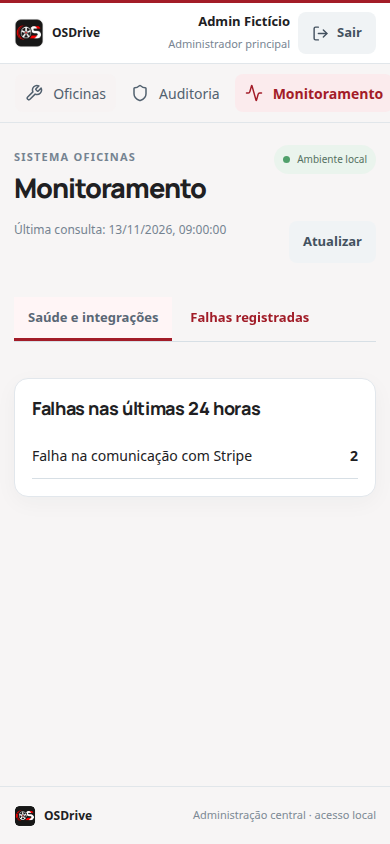
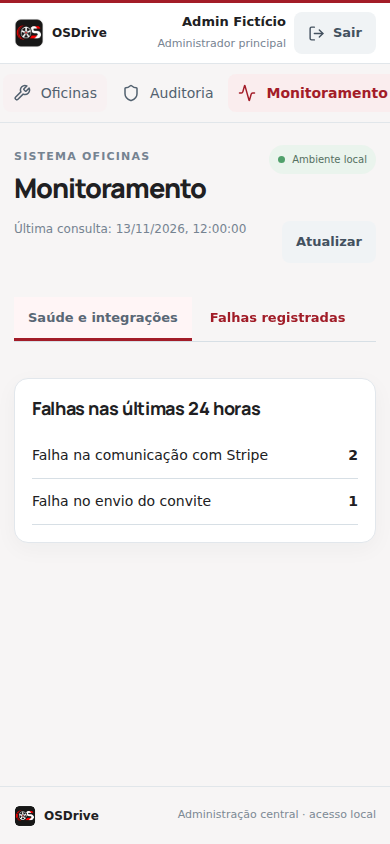
fix(admin): corrigir prazo do link e falha de convite (#202)
CI PostgreSQL #870 aprovado: build, 406 testes gerais, 47 integrações PostgreSQL 17 e regressões visuais. Aviso de 48 horas e descrição explícita de falha de entrega; duas capturas novas e uma atualizada. Somente homologação, sem mudanças no envio, Stripe, banco ou Horse Power definitiva.

diff --git a/tests/adminPresentation.test.ts b/tests/adminPresentation.test.ts
@@ -1,6 +1,6 @@
 import test from "node:test";
 import assert from "node:assert/strict";
-import {adminActionLabel,adminReason,adminRequest,localDateInput,optionalWholeNumber,plannedWorkshopPlans,workshopTabs} from "../src/lib/adminPresentation";
+import {adminActionLabel,adminResultLabel,adminReason,adminRequest,localDateInput,optionalWholeNumber,plannedWorkshopPlans,workshopTabs} from "../src/lib/adminPresentation";
 test("ADM-002.1: sections preserve transfers and future plans do not supply effective grants",()=>{
  assert.deepEqual(workshopTabs.map(t=>t[0]),["general","access","users","invitations","history","transfer"]);
  assert.deepEqual(plannedWorkshopPlans.map(p=>p.label),["Básico","Profissional","Premium"]);
@@ -31,4 +31,13 @@ test("ADM-002.1: request failures are actionable and retain same-origin authenti
   globalThis.fetch=async(url,options)=>{assert.equal(url,"/admin-api/workshops");assert.equal(options?.credentials,"same-origin");return Response.json({ok:true});};
   assert.deepEqual(await adminRequest("/workshops"),{ok:true});
  }finally{globalThis.fetch=original;}
+});
+
+test("ADM: invitation delivery failures have explicit labels without changing audit identifiers",()=>{
+ for(const action of ["admin.workshop.invitation.delivery_failed","admin.workshop.invitation_failed"]){
+  assert.equal(adminActionLabel(action),"Falha no envio do convite");
+ }
+ assert.equal(adminResultLabel("failure"),"Falhou");
+ assert.equal(adminActionLabel("admin.workshop.invitation.created"),"Convite de ativação preparado");
+ assert.equal(adminActionLabel("admin.workshop.invitation.unknown"),"Convite de ativação atualizado");
 });

diff --git a/src/components/PlatformWorkshops.tsx b/src/components/PlatformWorkshops.tsx
@@ -223,7 +223,7 @@ export function PlatformWorkshops({ canManage, canTransfer, canRequestCritical, 
         {error&&<p role="alert" className="pa-note pa-note--error">{error}</p>}
         {manualActivation.mode === "confirm" ? <>
           <p>Antes de continuar, confirme que verificou fora do sistema a titularidade da oficina e a autorização de quem receberá o link. A pessoa que concluir o fluxo poderá criar o acesso do responsável cadastrado e iniciar o teste grátis.</p>
-          <p>O link não será enviado por e-mail. Ele expira em 72 horas e a geração invalida convites anteriores ainda não utilizados.</p>
+          <p>O link não será enviado por e-mail. Ele expira em 48 horas e a geração invalida convites anteriores ainda não utilizados.</p>
           <label>Como a titularidade foi verificada?
             <select value={verificationMethod} onChange={event => setVerificationMethod(event.target.value as typeof verificationMethod)}>
               <option value="phone">Contato telefônico</option>

diff --git a/src/lib/adminPresentation.ts b/src/lib/adminPresentation.ts
@@ -37,6 +37,7 @@ const actions: Record<string,string> = {
  "admin.workshop.invitation_sent":"Convite enviado", "admin.workshop.invitation_failed":"Falha no envio do convite",
  "admin.workshop.manual_activation_link_created":"Link manual de ativação gerado",
  "admin.workshop.activated":"Ativação concluída",
+ "admin.workshop.invitation.delivery_failed":"Falha no envio do convite",
  "admin.workshop.invitation.created":"Convite de ativação preparado",
  "admin.workshop.invitation.manual_link_created":"Link manual de ativação gerado",
  "admin.workshop.entitlements.updated":"Permissões e limites alterados",

diff --git a/docs/mapeamento-visual/CHECKLIST.md b/docs/mapeamento-visual/CHECKLIST.md
@@ -136,7 +136,7 @@ Estados: capturada, pendente, bloqueada e não aplicável.
 | stripe-admin-desktop | Painel Administrativo Central | Preços mensais Stripe — Interface real em Chromium com API e cobranças fictícias; não comprova webhook ou pagamento externo. | [`capturas/17-painel-admin-central/stripe-admin-desktop.png`](./capturas/17-painel-admin-central/stripe-admin-desktop.png) | capturada | 2026-11-15 | fbaa9f600ddc61417b22752e8396712ecedaaad6 | Teste de busca, paginação, erros, conciliação com justificativa e retomada confirmada; PostgreSQL validado separadamente no CI. |
 | stripe-oficina-desktop | Configurações da oficina | Assinatura e pagamentos da oficina — Componente real em Chromium com API e pagamentos fictícios; não comprova entrega de webhook ou cobrança externa. | [`capturas/14-configuracoes/stripe-oficina-desktop.png`](./capturas/14-configuracoes/stripe-oficina-desktop.png) | capturada | 2026-11-05 | ffa6ae17881c2848a19a373d48599d99fc35ef4f | CI #583. Dados exclusivamente fictícios; integração PostgreSQL validada separadamente. |
 | stripe-oficina-mobile | Configurações da oficina | Assinatura e pagamentos da oficina — Componente real em Chromium com API e pagamentos fictícios; não comprova entrega de webhook ou cobrança externa. | [`capturas/14-configuracoes/stripe-oficina-mobile.png`](./capturas/14-configuracoes/stripe-oficina-mobile.png) | capturada | 2026-11-05 | ffa6ae17881c2848a19a373d48599d99fc35ef4f | CI #583. Dados exclusivamente fictícios; integração PostgreSQL validada separadamente. |
-| monitoramento-mobile | Painel Administrativo Central | Monitoramento — falhas por integração — Interface real com dados fictícios; não comprova fluxo autenticado na homologação. | [`capturas/17-painel-admin-central/monitoramento-mobile.png`](./capturas/17-painel-admin-central/monitoramento-mobile.png) | capturada | 2026-11-13 | 1a45971dc80ce77954c95612f39891bada77d5b4 | Regressão Playwright com API fictícia. |
+| monitoramento-mobile | Painel Administrativo Central | Monitoramento — falhas por integração — Monitoramento real com eventos fictícios, incluindo falha no envio de convite; não comprova disponibilidade externa. | [`capturas/17-painel-admin-central/monitoramento-mobile.png`](./capturas/17-painel-admin-central/monitoramento-mobile.png) | capturada | 2026-11-15 | c70f7882f045ef840f8425161c8cfc5f3a0534c8 | Regressão Playwright no CI #869 com API e dados fictícios; nenhum envio real ou alteração em banco persistente. |
 | support-admin-desktop | Painel Administrativo Central | Suporte — atualização da conversa (admin, desktop) — Interface real e APIs fictícias: atualização de mensagens, estado e rascunho preservado; menus com ícones. | [`capturas/17-painel-admin-central/support-admin-desktop.png`](./capturas/17-painel-admin-central/support-admin-desktop.png) | capturada | 2026-11-13 | 1c7a0ed13dec531868f6a0eb168a08f2969dcb78 | scripts/test-support-interface.mjs em loopback; sem dados persistentes. |
 | suporte-mobile | Painel Administrativo Central | Suporte — atualização da conversa (admin, mobile) — Interface real e APIs fictícias: atualização de mensagens, estado e rascunho preservado; menus com ícones. | [`capturas/17-painel-admin-central/suporte-mobile.png`](./capturas/17-painel-admin-central/suporte-mobile.png) | capturada | 2026-11-13 | 1c7a0ed13dec531868f6a0eb168a08f2969dcb78 | scripts/test-support-interface.mjs em loopback; sem dados persistentes. |
 | support-oficina-desktop | Suporte da oficina | Suporte — atualização da conversa (oficina, desktop) — Interface real e APIs fictícias: atualização de mensagens, estado e rascunho preservado; menus com ícones. | [`capturas/19-suporte/support-oficina-desktop.png`](./capturas/19-suporte/support-oficina-desktop.png) | capturada | 2026-11-13 | 1c7a0ed13dec531868f6a0eb168a08f2969dcb78 | scripts/test-support-interface.mjs em loopback; sem dados persistentes. |
@@ -172,6 +172,8 @@ Estados: capturada, pendente, bloqueada e não aplicável.
 | stripe-admin-details-desktop | Painel Administrativo Central | Conferência de cobranças por oficina — Interface real em Chromium com API e cobranças fictícias; não comprova webhook ou pagamento externo. | [`capturas/17-painel-admin-central/stripe-admin-details-desktop.png`](./capturas/17-painel-admin-central/stripe-admin-details-desktop.png) | capturada | 2026-11-15 | fbaa9f600ddc61417b22752e8396712ecedaaad6 | Teste de busca, paginação, erros, conciliação com justificativa e retomada confirmada; PostgreSQL validado separadamente no CI. |
 | stripe-admin-details-mobile | Painel Administrativo Central | Conferência de cobranças por oficina — Interface real em Chromium com API e cobranças fictícias; não comprova webhook ou pagamento externo. | [`capturas/17-painel-admin-central/stripe-admin-details-mobile.png`](./capturas/17-painel-admin-central/stripe-admin-details-mobile.png) | capturada | 2026-11-15 | fbaa9f600ddc61417b22752e8396712ecedaaad6 | Teste de busca, paginação, erros, conciliação com justificativa e retomada confirmada; PostgreSQL validado separadamente no CI. |
 | stripe-downgrade-vagas-desktop | Configurações da oficina | Vagas necessárias para reduzir o plano — Oficina Profissional com cinco vagas ocupadas seleciona o Básico. O Master vê quantas vagas liberar antes de pagar. | [`capturas/14-configuracoes/stripe-downgrade-vagas-desktop.png`](./capturas/14-configuracoes/stripe-downgrade-vagas-desktop.png) | capturada | 2026-11-15 | c23640f177f6377954ae55e77174aa619bbaa3b6 | — |
+| admin-convite-confirmacao-mobile | Painel Administrativo Central | Confirmação do link manual de ativação — Diálogo real com API fictícia: prazo de 48 horas, verificação de titularidade e confirmação obrigatória; nenhum token é exibido. | [`capturas/17-painel-admin-central/oficina-convite-confirmacao-mobile.png`](./capturas/17-painel-admin-central/oficina-convite-confirmacao-mobile.png) | capturada | 2026-11-15 | c70f7882f045ef840f8425161c8cfc5f3a0534c8 | Regressão Playwright no CI #869 com API e dados fictícios; nenhum envio real ou alteração em banco persistente. |
+| admin-historico-convites-desktop | Painel Administrativo Central | Histórico de falha no envio do convite — Histórico real com evento fictício de falha: descrição compreensível e resultado Falhou, preservando o identificador interno. | [`capturas/17-painel-admin-central/oficina-historico-convites-desktop.png`](./capturas/17-painel-admin-central/oficina-historico-convites-desktop.png) | capturada | 2026-11-15 | c70f7882f045ef840f8425161c8cfc5f3a0534c8 | Regressão Playwright no CI #869 com API e dados fictícios; nenhum envio real ou alteração em banco persistente. |
 
 ## Fluxos
 

diff --git a/docs/mapeamento-visual/INDEX.md b/docs/mapeamento-visual/INDEX.md
@@ -968,11 +968,11 @@ Estado: capturada · desktop · captura 2026-11-15 · commit de origem: fbaa9f60
 
 ### Monitoramento — falhas por integração
 
-Interface real com dados fictícios; não comprova fluxo autenticado na homologação.
+Monitoramento real com eventos fictícios, incluindo falha no envio de convite; não comprova disponibilidade externa.
 
 [![Monitoramento — falhas por integração](./capturas/17-painel-admin-central/monitoramento-mobile.png)](./capturas/17-painel-admin-central/monitoramento-mobile.png)
 
-Estado: capturada · mobile · captura 2026-11-13 · commit de origem: 1a45971dc80ce77954c95612f39891bada77d5b4 · [arquivo completo](./capturas/17-painel-admin-central/monitoramento-mobile.png)
+Estado: capturada · mobile · captura 2026-11-15 · commit de origem: c70f7882f045ef840f8425161c8cfc5f3a0534c8 · [arquivo completo](./capturas/17-painel-admin-central/monitoramento-mobile.png)
 
 ### Suporte — atualização da conversa (admin, desktop)
 
@@ -1013,6 +1013,22 @@ Interface real em Chromium com API e cobranças fictícias; não comprova webhoo
 [![Conferência de cobranças por oficina](./capturas/17-painel-admin-central/stripe-admin-details-mobile.png)](./capturas/17-painel-admin-central/stripe-admin-details-mobile.png)
 
 Estado: capturada · mobile · captura 2026-11-15 · commit de origem: fbaa9f600ddc61417b22752e8396712ecedaaad6 · [arquivo completo](./capturas/17-painel-admin-central/stripe-admin-details-mobile.png)
+
+### Confirmação do link manual de ativação
+
+Diálogo real com API fictícia: prazo de 48 horas, verificação de titularidade e confirmação obrigatória; nenhum token é exibido.
+
+[![Confirmação do link manual de ativação](./capturas/17-painel-admin-central/oficina-convite-confirmacao-mobile.png)](./capturas/17-painel-admin-central/oficina-convite-confirmacao-mobile.png)
+
+Estado: capturada · mobile · captura 2026-11-15 · commit de origem: c70f7882f045ef840f8425161c8cfc5f3a0534c8 · [arquivo completo](./capturas/17-painel-admin-central/oficina-convite-confirmacao-mobile.png)
+
+### Histórico de falha no envio do convite
+
+Histórico real com evento fictício de falha: descrição compreensível e resultado Falhou, preservando o identificador interno.
+
+[![Histórico de falha no envio do convite](./capturas/17-painel-admin-central/oficina-historico-convites-desktop.png)](./capturas/17-painel-admin-central/oficina-historico-convites-desktop.png)
+
+Estado: capturada · desktop · captura 2026-11-15 · commit de origem: c70f7882f045ef840f8425161c8cfc5f3a0534c8 · [arquivo completo](./capturas/17-painel-admin-central/oficina-historico-convites-desktop.png)
 
 ## 18 — Resultados da oficina
 

diff --git a/docs/mapeamento-visual/README.md b/docs/mapeamento-visual/README.md
@@ -26,4 +26,4 @@ Capturas que criem, editem ou finalizem registros só podem usar base PostgreSQL
 
 ## Coleta atual
 
-O acervo inclui 119 PNGs de telas reais. Consulte a data e o commit de cada entrada: as capturas originais de 22/10/2026 não registraram o commit e continuam sinalizadas. Capturas ADM-002.1 usam Chromium com respostas de API fictícias e não comprovam o backend; a integração PostgreSQL é testada separadamente no CI. Nenhuma credencial, token ou dado real deve aparecer nas imagens.
+O acervo inclui 121 PNGs de telas reais. Consulte a data e o commit de cada entrada: as capturas originais de 22/10/2026 não registraram o commit e continuam sinalizadas. Capturas ADM-002.1 usam Chromium com respostas de API fictícias e não comprovam o backend; a integração PostgreSQL é testada separadamente no CI. Nenhuma credencial, token ou dado real deve aparecer nas imagens.
